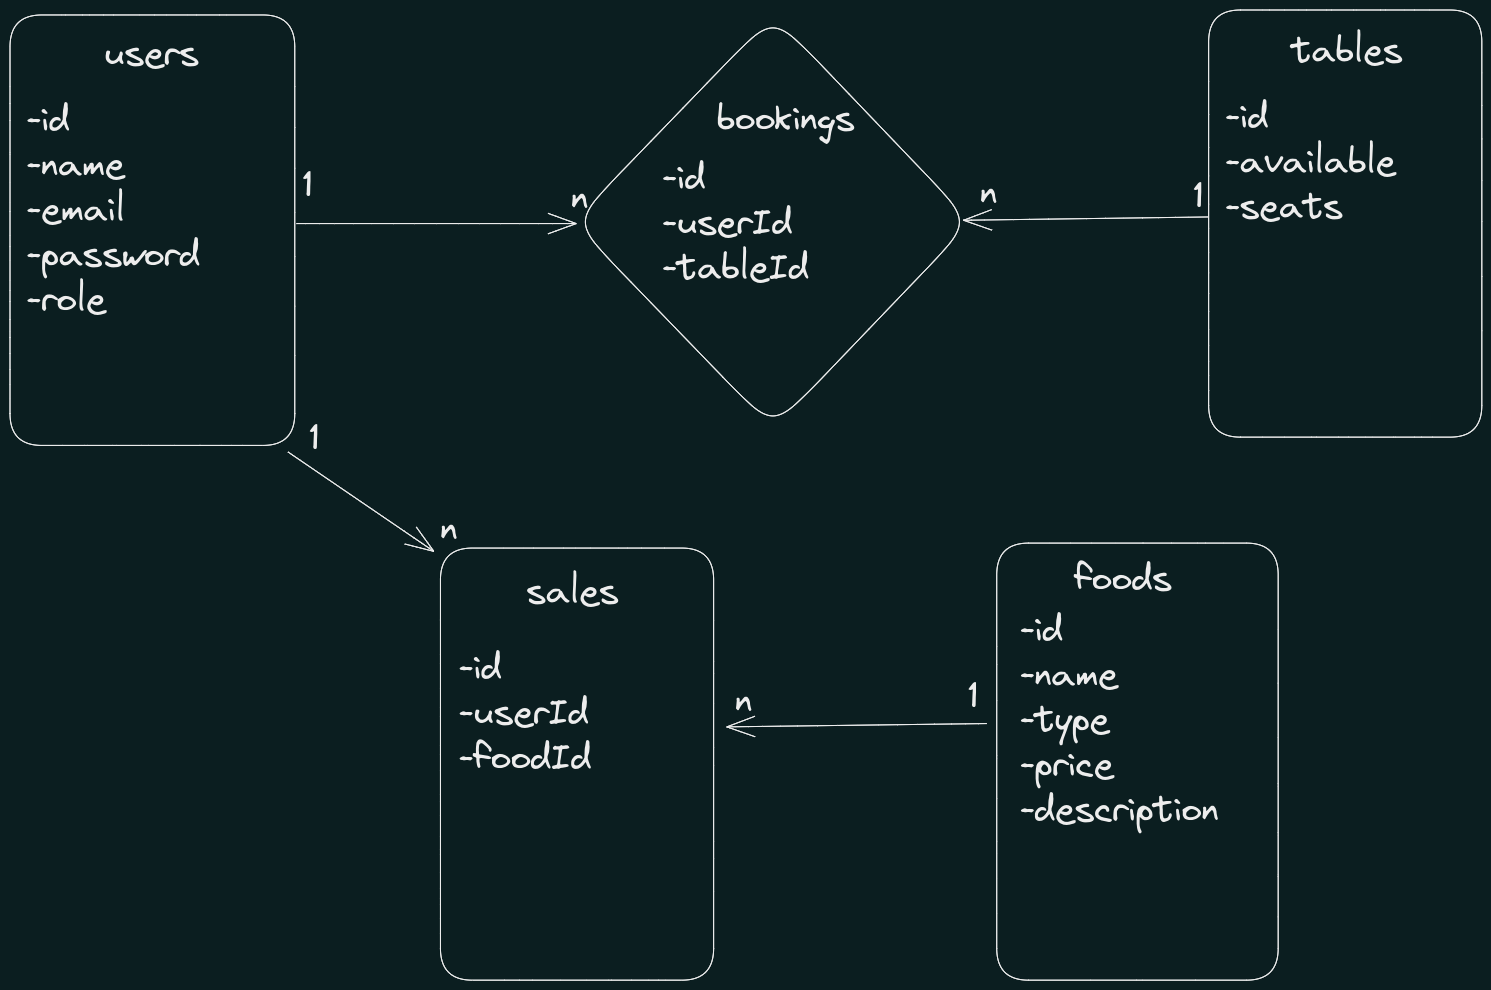
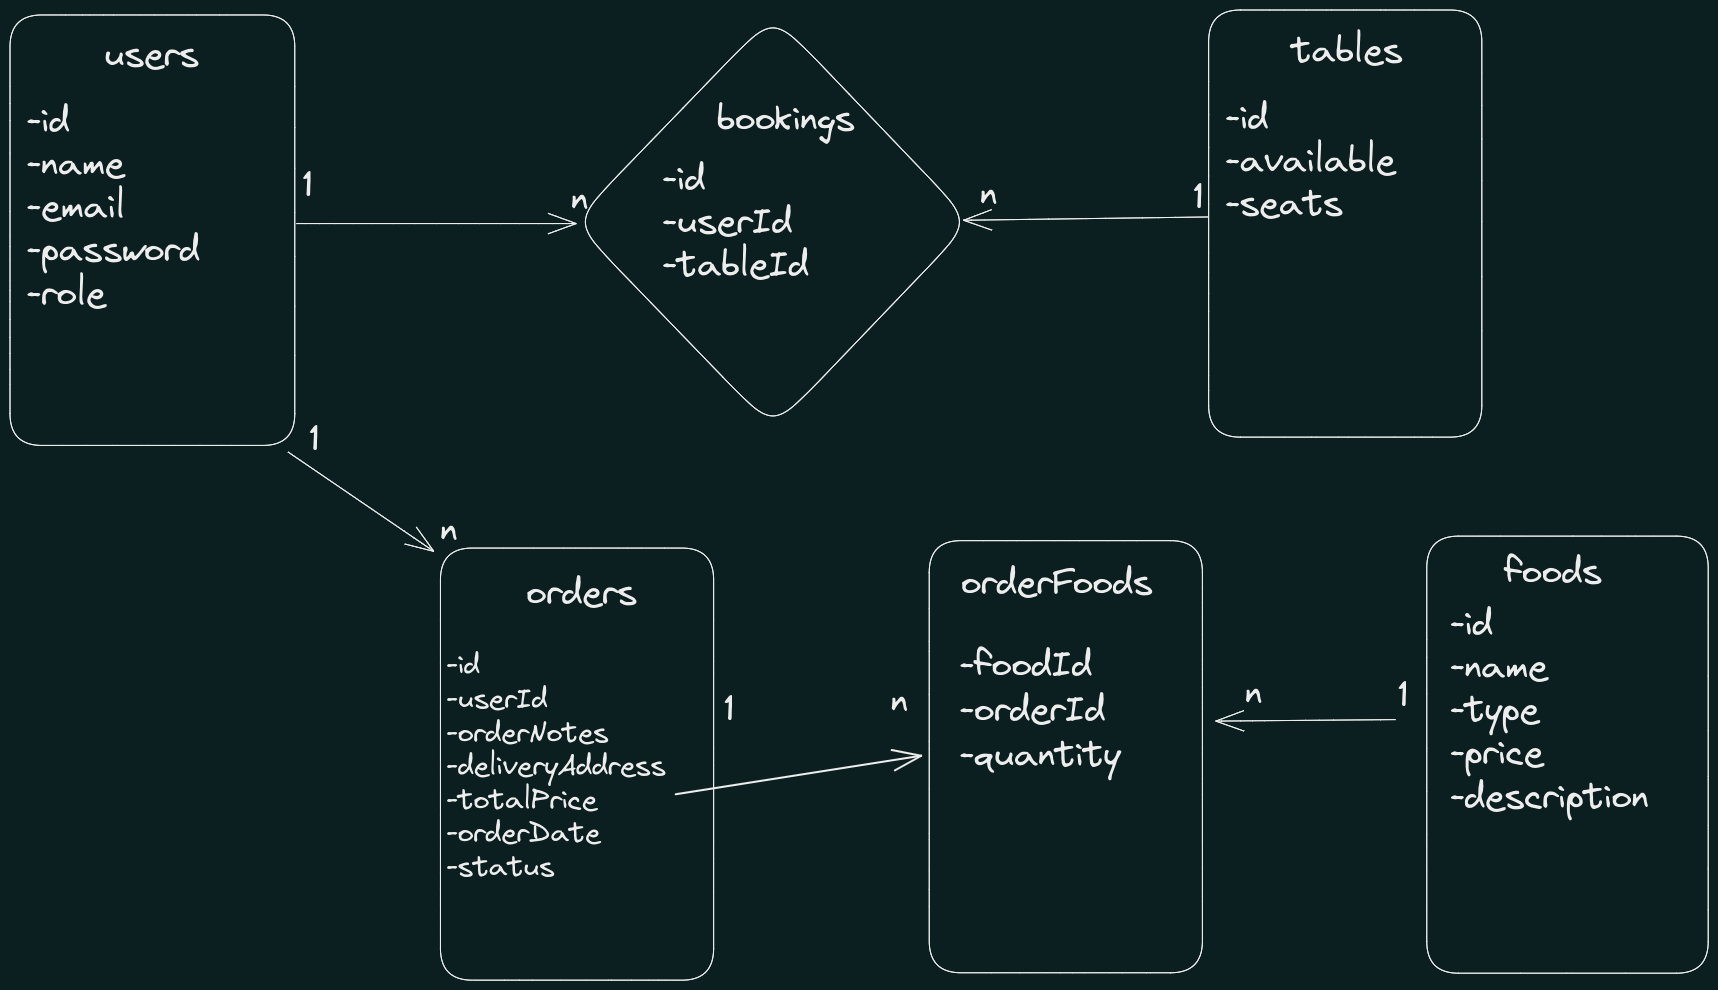
build: add's orders_foods table and update infos on orders table / backend

diff --git a/backend/src/database/models/orders.model.ts b/backend/src/database/models/orders.model.ts
@@ -1,8 +1,7 @@
-import { INTEGER, Model, STRING, DATE } from "sequelize";
+import { INTEGER, Model, STRING, DATE, DECIMAL } from 'sequelize';
 import db from '.';
-import Iorders from "../../interfaces/Iorders";
-import Foods from "./foods.model";
-import Users from "./user.model";
+import Iorders from '../../interfaces/Iorders';
+import Users from './user.model';
 
 class Orders extends Model<Iorders> {
   declare id: number;
@@ -12,41 +11,52 @@ class Orders extends Model<Iorders> {
   declare orderDate: Date;
 }
 
-Orders.init({
-  id: {
-    type: INTEGER,
-    autoIncrement: true,
-    allowNull: false,
-    primaryKey: true,
+Orders.init(
+  {
+    id: {
+      type: INTEGER,
+      autoIncrement: true,
+      allowNull: false,
+      primaryKey: true,
+    },
+    userId: {
+      type: INTEGER,
+      allowNull: false,
+      field: 'user_id',
+    },
+    orderNotes: {
+      type: STRING,
+      allowNull: true,
+      field: 'order_notes',
+    },
+    orderDate: {
+      type: DATE,
+      allowNull: false,
+      field: 'order_date',
+    },
+    deliveryAddress: {
+      type: STRING,
+      allowNull: false,
+      field: 'delivery_address',
+    },
+    status: {
+      type: STRING,
+      allowNull: false,
+    },
+    totalPrice: {
+      type: DECIMAL,
+      allowNull: false,
+      field: 'total_price',
+    },
   },
-  userId: {
-    type: INTEGER,
-    allowNull: false,
-    field: 'user_id',
-  },
-  foodId: {
-    type: INTEGER,
-    allowNull: false,
-    field: 'food_id',
-  },
-  orderNotes: {
-    type: STRING,
-    allowNull: true,
-    field: 'order_notes',
-  },
-  orderDate: {
-    type: DATE,
-    allowNull: false,
-    field: 'order_date'
-  },
-}, {
-  timestamps: false,
-  sequelize: db,
-  modelName: 'orders',
-  underscored: true,
-})
+  {
+    timestamps: false,
+    sequelize: db,
+    modelName: 'orders',
+    underscored: true,
+  }
+);
 
 Orders.belongsTo(Users, { foreignKey: 'userId', as: 'user' });
-Orders.belongsTo(Foods, { foreignKey: 'foodId', as: 'food' });
 
 export default Orders;

diff --git a/backend/src/database/models/ordersFoods.model.ts b/backend/src/database/models/ordersFoods.model.ts
@@ -1,0 +1,48 @@
+import { Model } from 'sequelize/types';
+import IordersFoods from '../../interfaces/IordersFoods';
+import db from '.';
+import { INTEGER } from 'sequelize';
+import Orders from './orders.model';
+import Foods from './foods.model';
+
+class OrdersFoods extends Model<IordersFoods> {
+  declare foodId: number;
+  declare orderId: number;
+  declare quantity: number;
+}
+
+OrdersFoods.init(
+  {
+    foodId: {
+      type: INTEGER,
+      allowNull: false,
+      field: 'food_id',
+    },
+    orderId: {
+      type: INTEGER,
+      allowNull: false,
+      field: 'order_id',
+    },
+    quantity: {
+      type: INTEGER,
+      allowNull: false,
+    },
+  },
+  {
+    timestamps: false,
+    sequelize: db,
+    modelName: 'orders_foods',
+    underscored: true,
+  }
+);
+
+OrdersFoods.belongsToMany(Orders, {
+  through: OrdersFoods,
+  foreignKey: 'orderId',
+  as: 'order',
+});
+OrdersFoods.belongsToMany(Foods, {
+  through: OrdersFoods,
+  foreignKey: 'orderId',
+  as: 'order',
+});

diff --git a/backend/src/database/migrations/20230325011003-ordersFoods.js b/backend/src/database/migrations/20230325011003-ordersFoods.js
@@ -1,0 +1,39 @@
+'use strict';
+
+module.exports = {
+  up: async (queryInterface, Sequelize) => {
+    await queryInterface.createTable('orders_foods', {
+      foodId: {
+        type: Sequelize.INTEGER,
+        allowNull: false,
+        onUpdate: 'CASCADE',
+        onDelete: 'CASCADE',
+        field: 'food_id',
+        references: {
+          model: 'foods',
+          key: 'id'
+        }
+      },
+      orderId: {
+        type: Sequelize.INTEGER,
+        allowNull: false,
+        onUpdate: 'CASCADE',
+        onDelete: 'CASCADE',
+        field: 'order_id',
+        references: {
+          model: 'orders',
+          key: 'id',
+        }
+      },
+      quantity: {
+        type: Sequelize.INTEGER,
+        allowNull: false,
+      }
+    });
+
+  },
+
+  down: async (queryInterface, _Sequelize) => {
+    await queryInterface.dropTable('orders_foods');
+  }
+};

diff --git a/backend/src/database/migrations/20230307001024-orders.js b/backend/src/database/migrations/20230307001024-orders.js
@@ -20,6 +20,11 @@ module.exports = {
           key: 'id'
         }
       },
+      deliveryAddress: {
+        allowNull: false,
+        type: Sequelize.STRING,
+        field: 'delivery_address',
+      },
       foodId: {
         allowNull: false,
         type: Sequelize.INTEGER,
@@ -30,6 +35,15 @@ module.exports = {
           model: 'foods',
           key: 'id'
         }
+      },
+      totalPrice: {
+        allowNull: false,
+        type: Sequelize.DECIMAL,
+        field: 'total_price',
+      },
+      status: {
+        allowNull: false,
+        type: Sequelize.STRING,
       },
       orderDate: {
         allowNull: false,

diff --git a/backend/src/interfaces/Iorders.ts b/backend/src/interfaces/Iorders.ts
@@ -1,9 +1,11 @@
 interface Iorders {
   id?: number,
   userId: number,
-  foodId: number,
+  deliveryAddress: string,
   orderNotes?: string,
   orderDate?: Date,
+  status: string,
+  totalPrice: number,
 }
 
 export default Iorders

diff --git a/backend/src/interfaces/IordersFoods.ts b/backend/src/interfaces/IordersFoods.ts
@@ -1,0 +1,7 @@
+interface IordersFoods {
+  orderId: number,
+  foodId: number,
+  quantity: number,
+}
+
+export default IordersFoods;
